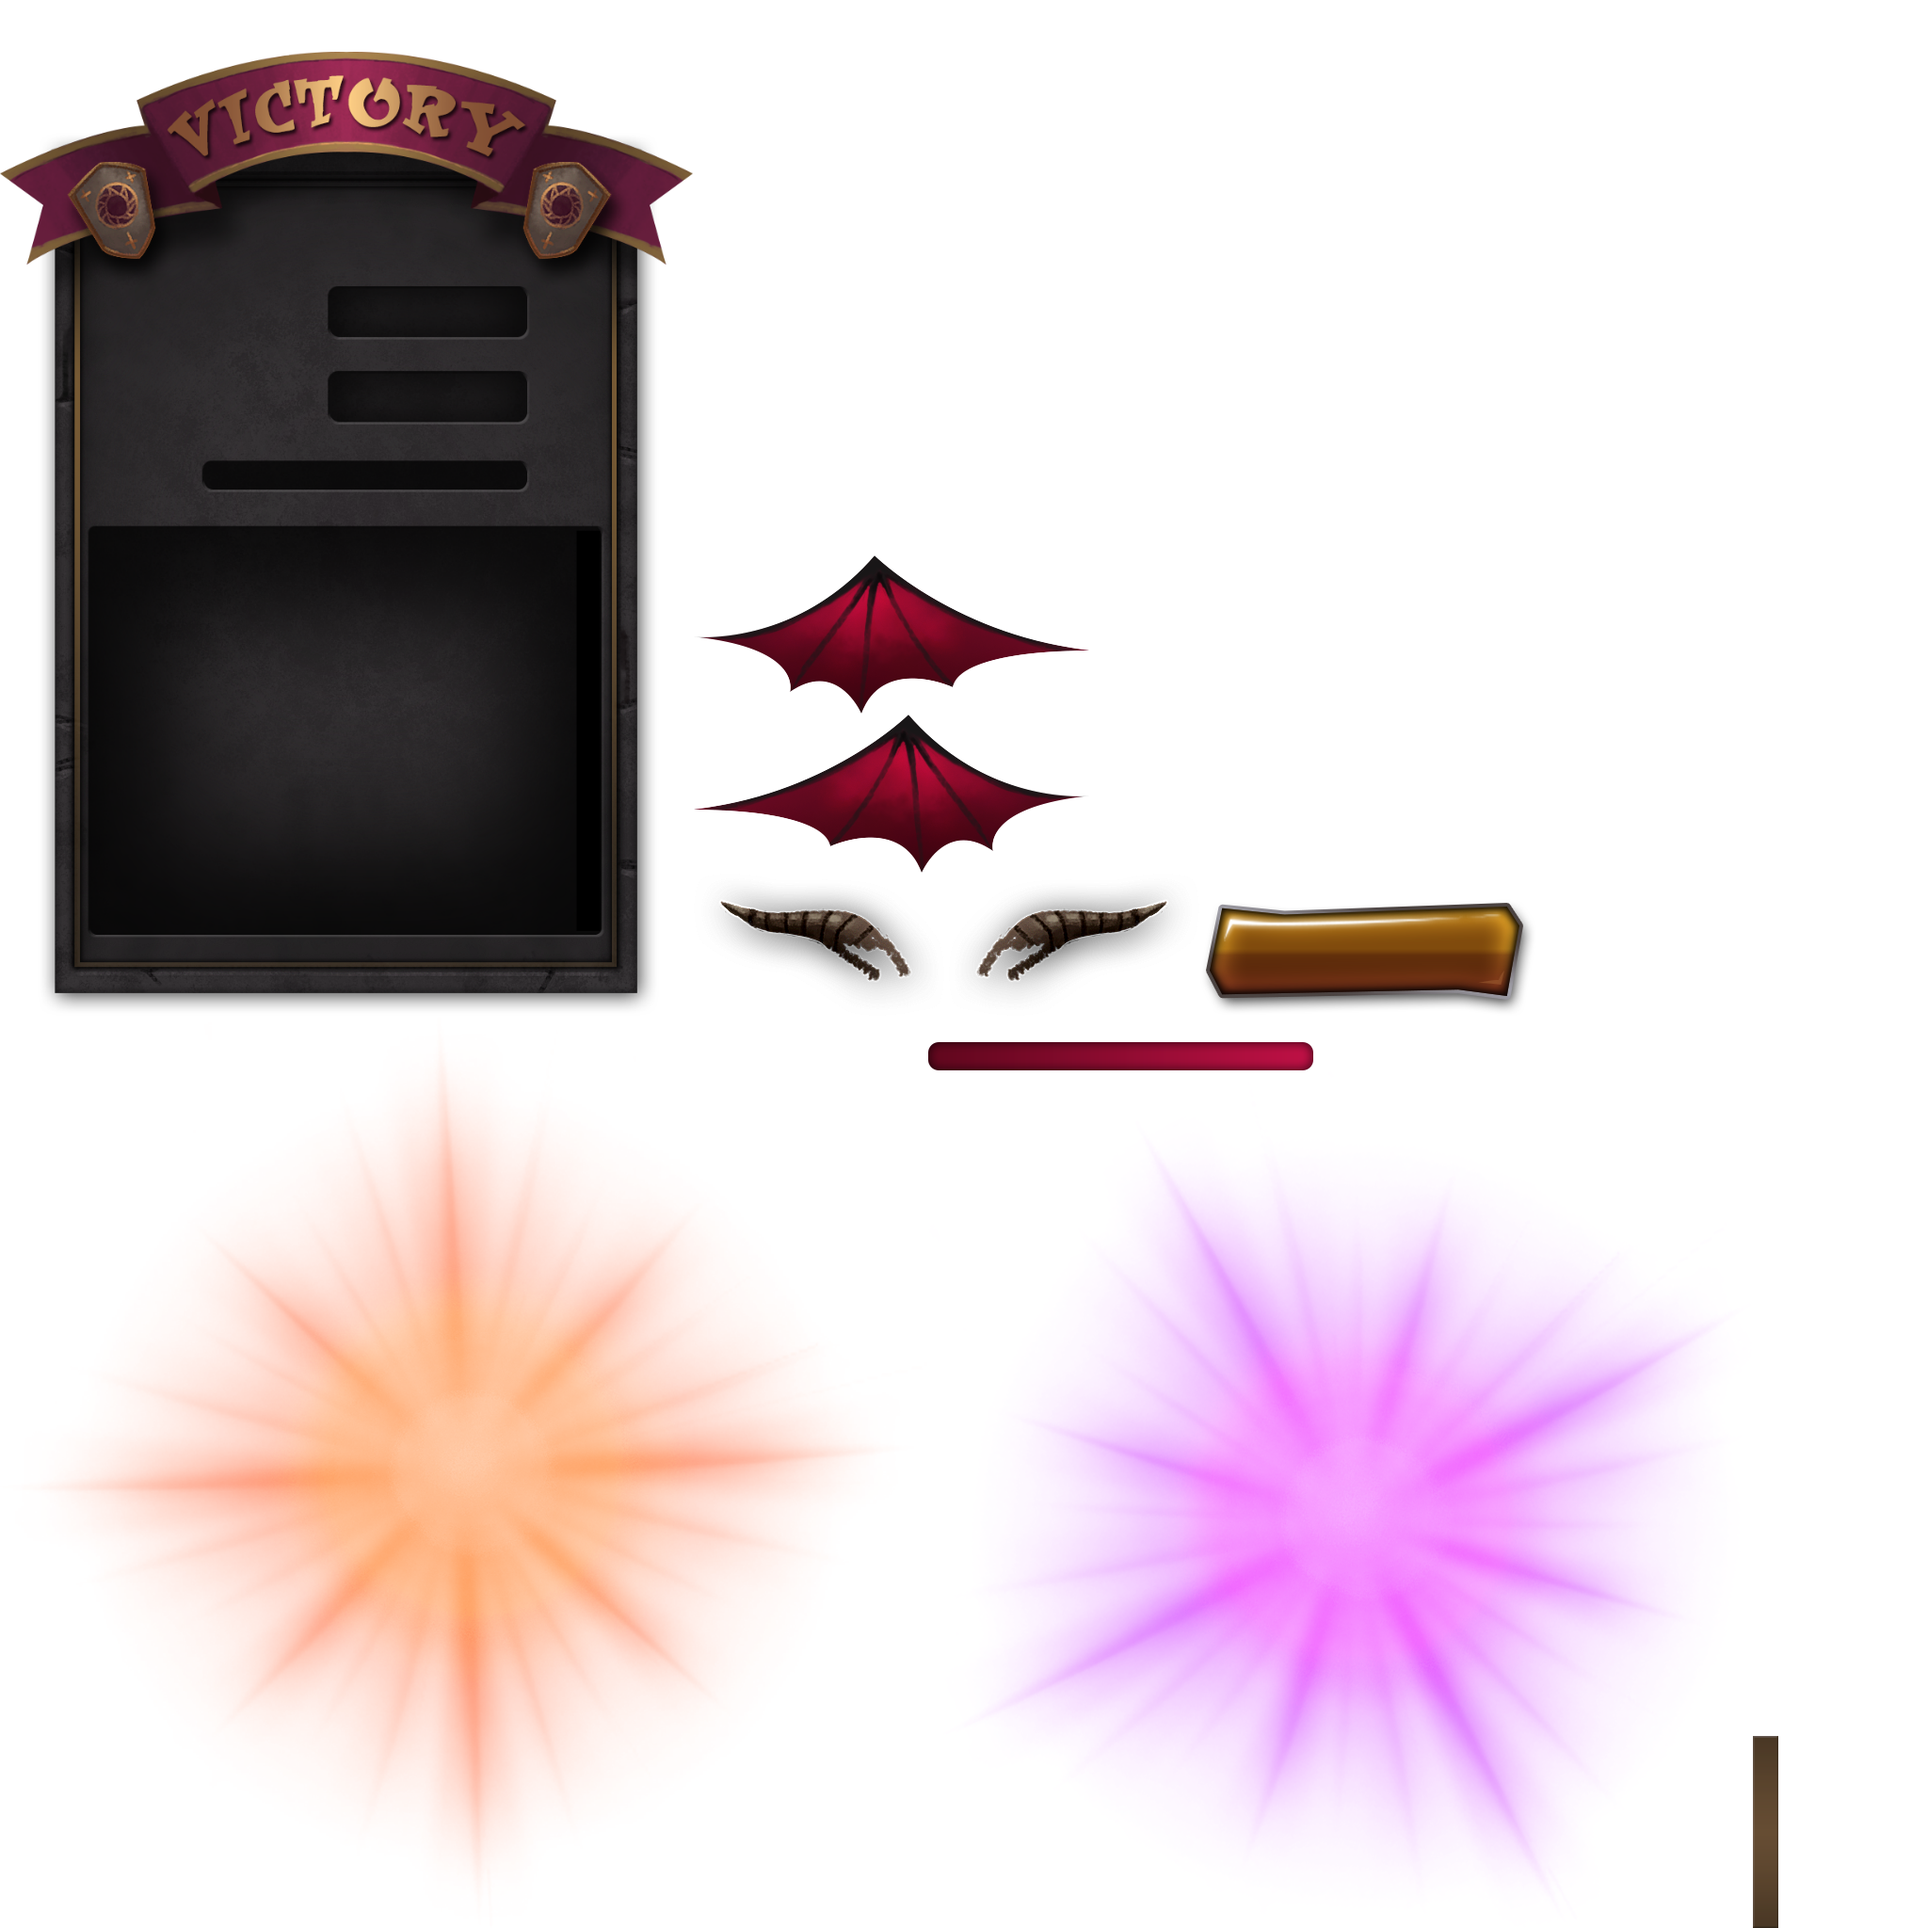
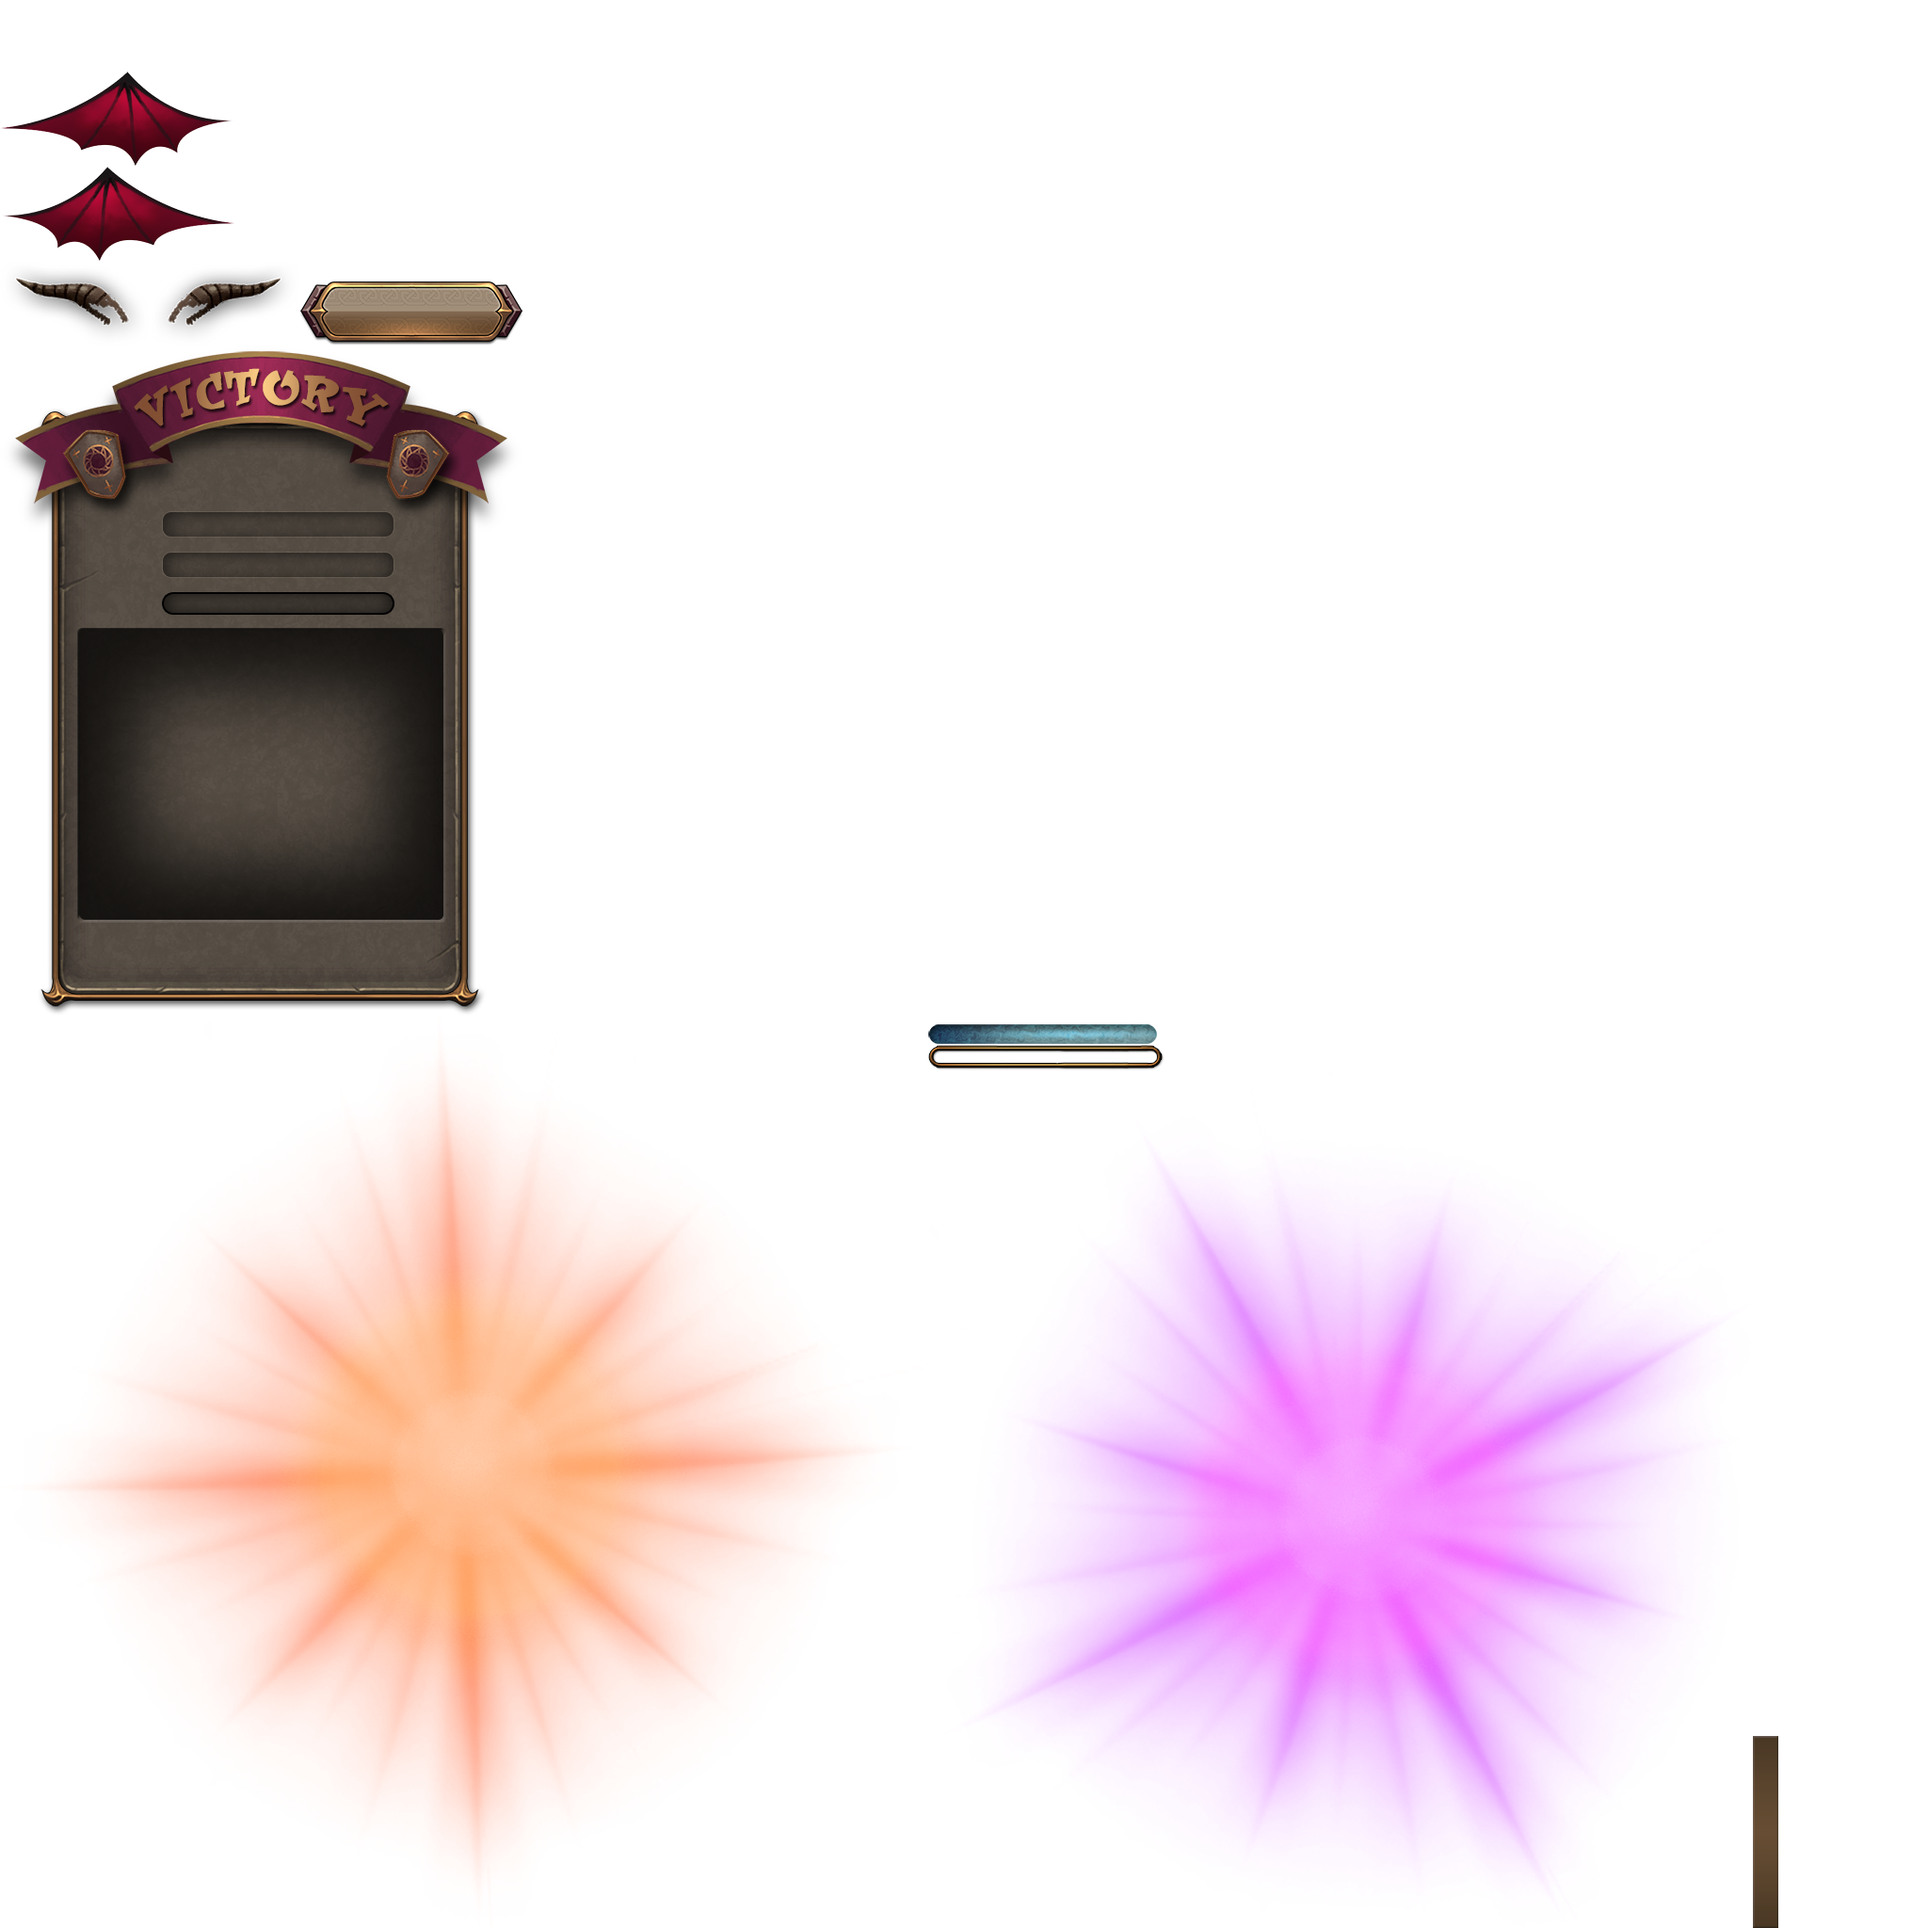
no message

Changed region(s): [[0.0, 0.0, 0.375, 0.5312], [0.375, 0.2812, 0.5625, 0.5312], [0.4688, 0.4375, 0.8125, 0.5625]]

diff --git a/Assets/Scripts/Effect/VictoryEffect.cs b/Assets/Scripts/Effect/VictoryEffect.cs
@@ -2,7 +2,7 @@
 using System.Collections;
 
 public class VictoryEffect : UIBaseUnity {
-	private UISprite levelProgress;
+	private UISlider levelProgress;
 	private UILabel coinLabel;
 	private UILabel empiricalLabel;
 
@@ -120,7 +120,7 @@ public class VictoryEffect : UIBaseUnity {
 			int showValue = (int)currentExp;
 			empiricalLabel.text = showValue.ToString();
 			float progress = currentExp / currentTotalExp;
-			levelProgress.fillAmount = progress;
+			levelProgress.value = progress;
 			if(currentExp >= currentTotalExp) {
 				currentExp -= currentTotalExp;
 				rank++;
@@ -157,7 +157,7 @@ public class VictoryEffect : UIBaseUnity {
 
 	void FindComponent () {
 		MsgCenter.Instance.Invoke (CommandEnum.StopInput, null);
-		levelProgress = FindChild<UISprite> ("LvProgress");
+		levelProgress = FindChild<UISlider> ("LvProgress");
 		coinLabel = FindChild<UILabel>("CoinValue");
 		empiricalLabel = FindChild<UILabel>("EmpiricalValue");
 		leftWing = FindChild<UISprite>("LeftWing");
@@ -208,7 +208,7 @@ public class VictoryEffect : UIBaseUnity {
 		}
 		float progree = (float)empire / (float)maxEmpire;
 		empiricalLabel.text = empire.ToString();
-		levelProgress.fillAmount = progree;
+		levelProgress.value = progree;
 		yield return 0;
 		if (empire < maxEmpire) {
 			StartCoroutine(UpdateLevelNumber(empire,maxEmpire));
